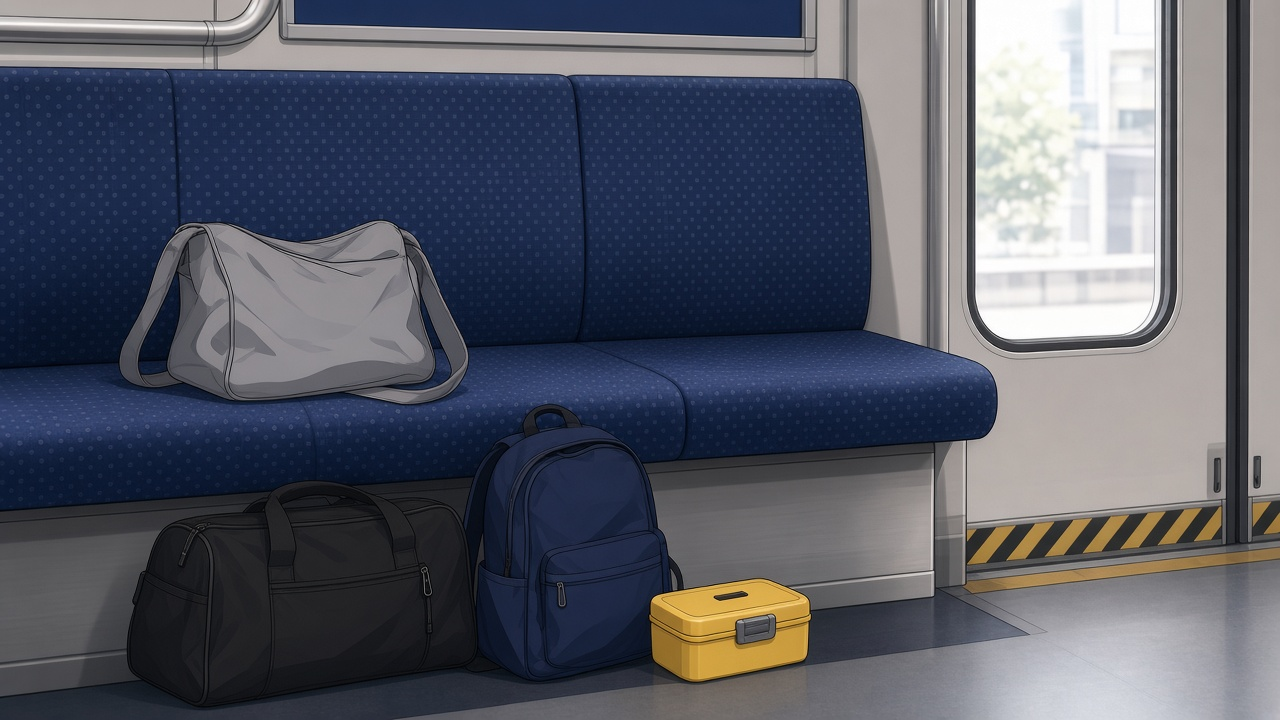
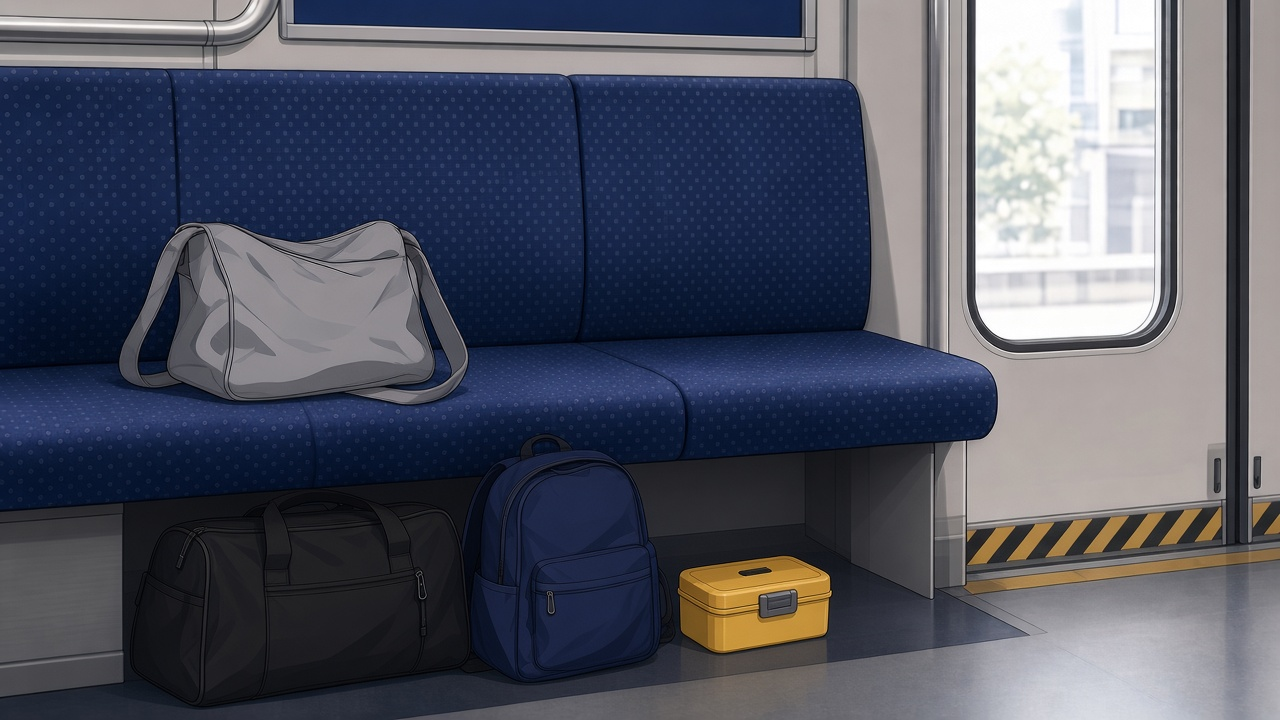
Say It Louder: under-bench M1-02 still and chips
Replace the seats plate so the navy, black, and yellow bags sit under the cushion, and keep each bag chip on the bag it names.

diff --git a/say-it-louder/styles.css b/say-it-louder/styles.css
@@ -1274,7 +1274,7 @@ footer {
   margin: 0;
   padding: 0;
   width: max-content;
-  max-width: 34%;
+  max-width: 30%;
   text-align: left;
   z-index: 3;
   transform: translateX(-50%);
@@ -1293,11 +1293,11 @@ footer {
 
 .has-plate[data-plate="m1-02"] .prop-place { margin-top: 2px; }
 
-/* M1-02: grey on the bench, navy under the seat between black and yellow. */
-.has-plate[data-plate="m1-02"] .prop-grey { left: 24%; top: 36%; }
-.has-plate[data-plate="m1-02"] .prop-black { left: 20%; top: 78%; }
-.has-plate[data-plate="m1-02"] .prop-navy { left: 48%; top: 72%; }
-.has-plate[data-plate="m1-02"] .prop-lunch { left: 66%; top: 78%; }
+/* M1-02: grey on the seat; navy, black, and yellow tucked under the cushion. */
+.has-plate[data-plate="m1-02"] .prop-grey { left: 24%; top: 38%; }
+.has-plate[data-plate="m1-02"] .prop-black { left: 18%; top: 78%; }
+.has-plate[data-plate="m1-02"] .prop-navy { left: 46%; top: 74%; }
+.has-plate[data-plate="m1-02"] .prop-lunch { left: 72%; top: 78%; }
 
 .campus.has-plate[data-plate="m2-02"] .pin-office,
 .campus.has-plate[data-plate="m2-03"] .pin-walkway,
@@ -1328,11 +1328,11 @@ footer {
 .pin { z-index: 5; }
 
 @media (max-width: 420px) {
-  .has-plate[data-plate="m1-02"] .prop { max-width: 46%; }
-  .has-plate[data-plate="m1-02"] .prop-grey { left: 22%; top: 28%; }
-  .has-plate[data-plate="m1-02"] .prop-black { left: 18%; top: 82%; }
-  .has-plate[data-plate="m1-02"] .prop-navy { left: 48%; top: 74%; }
-  .has-plate[data-plate="m1-02"] .prop-lunch { left: 72%; top: 78%; }
+  .has-plate[data-plate="m1-02"] .prop { max-width: 36%; }
+  .has-plate[data-plate="m1-02"] .prop-grey { left: 24%; top: 36%; }
+  .has-plate[data-plate="m1-02"] .prop-black { left: 16%; top: 80%; }
+  .has-plate[data-plate="m1-02"] .prop-navy { left: 44%; top: 72%; }
+  .has-plate[data-plate="m1-02"] .prop-lunch { left: 74%; top: 80%; }
   .has-plate[data-plate="m1-02"] .prop-label,
   .has-plate[data-plate="m1-02"] .prop-place,
   .campus.has-plate .pin-label,

diff --git a/say-it-louder/index.html b/say-it-louder/index.html
@@ -6,7 +6,7 @@
 <title>Say It Louder · English · SKH Holy Carpenter Secondary School</title>
 <meta name="description" content="Say It Louder — coach Leo with precise English. Mission 1 finds his school bag on the MTR. Mission 2 walks him from the school gate to the library. All Levels starter.">
 <link rel="stylesheet" href="../ask.css?v=20261030b">
-<link rel="stylesheet" href="styles.css?v=20261101g">
+<link rel="stylesheet" href="styles.css?v=20261101i">
 </head>
 <body>
   <div class="wrap">
@@ -83,7 +83,7 @@
       Materials for school use
     </footer>
   </div>
-  <script type="module" src="./src/main.js?v=20261101g"></script>
+  <script type="module" src="./src/main.js?v=20261101i"></script>
   <script src="../site-find.js?v=20261030a"></script>
   <script src="../ask.js?v=20261101a"></script>
   <script src="../site-version.js?v=sv"></script>
